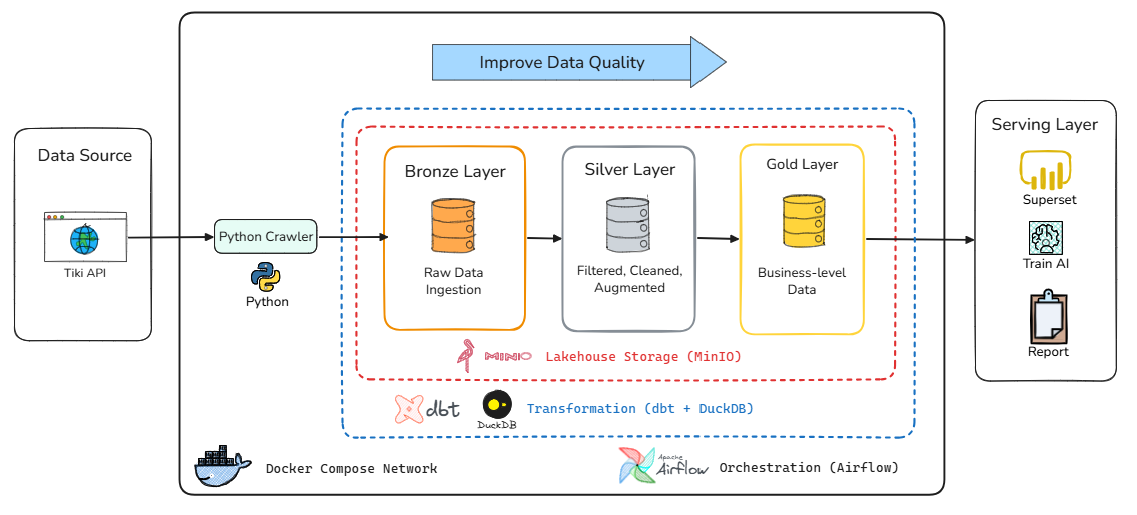
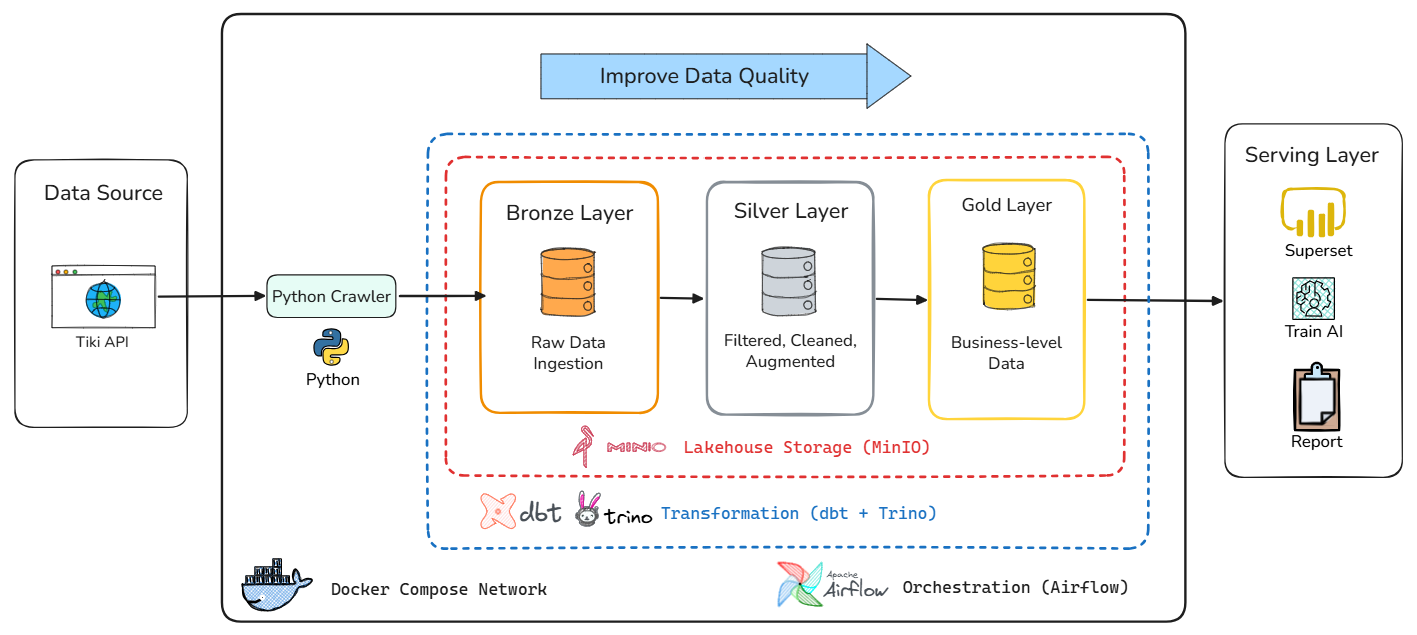
add deduplicate book products

diff --git a/crawler/fetch_tiki.py b/crawler/fetch_tiki.py
@@ -67,6 +67,8 @@ def fetch_tiki_products(
     Returns:
         list: A list of product data dictionaries.
     """
+    print(f"[FETCH] Starting extraction phase for category ID: {category_id}...")
+    print(f"[FETCH] Target pages: {num_pages}, limit per page: {limit} products.")
     session = build_session()
     products = []
 
@@ -81,30 +83,40 @@ def fetch_tiki_products(
             "category": category_id,
             "page": page,
         }
-        print(f"Page {page}: Fetching data from Tiki...")
+        print(f"[FETCH] Page {page}/{num_pages}: Requesting listings from Tiki API...")
 
         try:
             response = session.get(url, params=params, timeout=TIKI_TIMEOUT_SECONDS)
             if response.status_code != 200:
-                print(f"Non-200 status code received for page {page}: {response.status_code}")
+                print(
+                    f"[FETCH] [ERROR] Page {page} failed with HTTP status code: {response.status_code}"
+                )
                 break
 
             raw_json = response.json()
             data = raw_json.get("data", [])
             if not data:
-                print(f"No more products found on page {page}. Stopping.")
+                print(f"[FETCH] [INFO] Page {page} returned empty product list. Stopping fetch.")
                 break
 
             products.extend(data)
-            print(f"Page {page}: Fetched {len(data)} products")
+            print(
+                f"[FETCH] Page {page}: Successfully fetched {len(data)} products (Cumulative raw count: {len(products)})"
+            )
 
         except requests.exceptions.RequestException as e:
-            print(f"Page {page}: Request failed: {e}")
+            print(f"[FETCH] [ERROR] Page {page}: Connection or request failed: {e}")
             break
 
         # Sleep to avoid hitting rate limits
         time.sleep(1)
 
+    unique_ids = len(
+        set(p.get("id") for p in products if isinstance(p, dict) and p.get("id") is not None)
+    )
+    print(
+        f"[FETCH] Extraction phase complete. Crawled {len(products)} raw items. Unique products (by ID): {unique_ids}."
+    )
     return products
 
 
@@ -114,10 +126,20 @@ def save_to_minio(data):
         data (list): A list of product data dictionaries to save.
     """
     if not data:
-        print("No data to save.")
+        print("[SAVE] [WARNING] No data received to save.")
         return
 
+    print(f"[SAVE] Initializing data processing and storage stage...")
     df = pd.DataFrame(data)
+
+    # Deduplicate by product ID ('id') to avoid duplicates from page pagination
+    if "id" in df.columns:
+        initial_len = len(df)
+        df = df.drop_duplicates(subset=["id"], keep="first")
+        print(
+            f"[SAVE] Deduplication: removed {initial_len - len(df)} duplicates. "
+            f"Kept {len(df)} unique products (unique 'id')."
+        )
 
     now = datetime.now()
     year = now.strftime("%Y")
@@ -132,6 +154,10 @@ def save_to_minio(data):
     df["day"] = day
     df["extracted_at"] = timestamp_str
 
+    print(
+        f"[SAVE] Prepared schema with partition path: {partition_path} and timestamp: {timestamp_str}"
+    )
+
     # Convert any columns with dict or list data to string to ensure Parquet compatibility
     for col in df.columns:
         if df[col].apply(lambda x: isinstance(x, (dict, list))).any():
@@ -142,14 +168,16 @@ def save_to_minio(data):
     os.makedirs(preview_dir, exist_ok=True)
     preview_path = os.path.join(preview_dir, f"tiki_products_preview_{timestamp_str}.csv")
     df.to_csv(preview_path, index=False)
-    print(f"1. Preview data saved to {preview_path}")
+    print(f"[SAVE] 1. Preview CSV successfully saved locally to: {preview_path}")
 
     # Convert DataFrame to Parquet format in memory
+    print(f"[SAVE] 2. Serializing Pandas DataFrame to Parquet format in memory...")
     parquet_buffer = BytesIO()
     df.to_parquet(parquet_buffer, index=False)
-    print(f"2. Data converted to Parquet format in memory.")
+    print(f"[SAVE] Parquet serialization complete (size: {parquet_buffer.tell()} bytes).")
 
     # Initialize MinIO client and upload the Parquet file
+    print(f"[SAVE] 3. Connecting to MinIO endpoint: {MINIO_ENDPOINT}...")
     s3_client = boto3.client(
         "s3",
         endpoint_url=MINIO_ENDPOINT,
@@ -158,16 +186,37 @@ def save_to_minio(data):
     )
 
     file_key = f"tiki_products/{partition_path}/books_{timestamp_str}.parquet"
-    print(f"3. Uploading data to MinIO bucket '{MINIO_BUCKET_NAME}' with key '{file_key}'...")
+    print(
+        f"[SAVE] 4. Uploading Parquet object to bucket '{MINIO_BUCKET_NAME}' with key '{file_key}'..."
+    )
 
     s3_client.put_object(Bucket=MINIO_BUCKET_NAME, Key=file_key, Body=parquet_buffer.getvalue())
-    print(f"4. Data successfully uploaded to MinIO at '{file_key}'.")
+    print(f"[SAVE] 5. Successfully uploaded to MinIO: s3://{MINIO_BUCKET_NAME}/{file_key}")
 
 
 if __name__ == "__main__":
-    # Fetch products from Tiki and save to MinIO
-    products = fetch_tiki_products(num_pages=10)
-    print(f"Total products fetched: {len(products)}")
-    print("Saving fetched products to MinIO...")
+    print("==================================================")
+    print("🚀 TIKI LAKEHOUSE INGESTION PIPELINE: START")
+    print("==================================================")
+
+    # Fetch products from Tiki
+    products = fetch_tiki_products(num_pages=40)
+
+    total_fetched = len(products)
+    unique_ids_count = len(
+        set(p.get("id") for p in products if isinstance(p, dict) and p.get("id") is not None)
+    )
+
+    print("\n--------------------------------------------------")
+    print("📊 EXTRACTION SUMMARY")
+    print(f"  - Total records crawled (raw): {total_fetched}")
+    print(f"  - Actual unique product IDs:    {unique_ids_count}")
+    print("--------------------------------------------------\n")
+
+    print("Saving fetched products to MinIO (Bronze Layer)...")
     # Save the fetched products to MinIO
     save_to_minio(products)
+
+    print("==================================================")
+    print("✅ TIKI LAKEHOUSE INGESTION PIPELINE: SUCCESS")
+    print("==================================================")